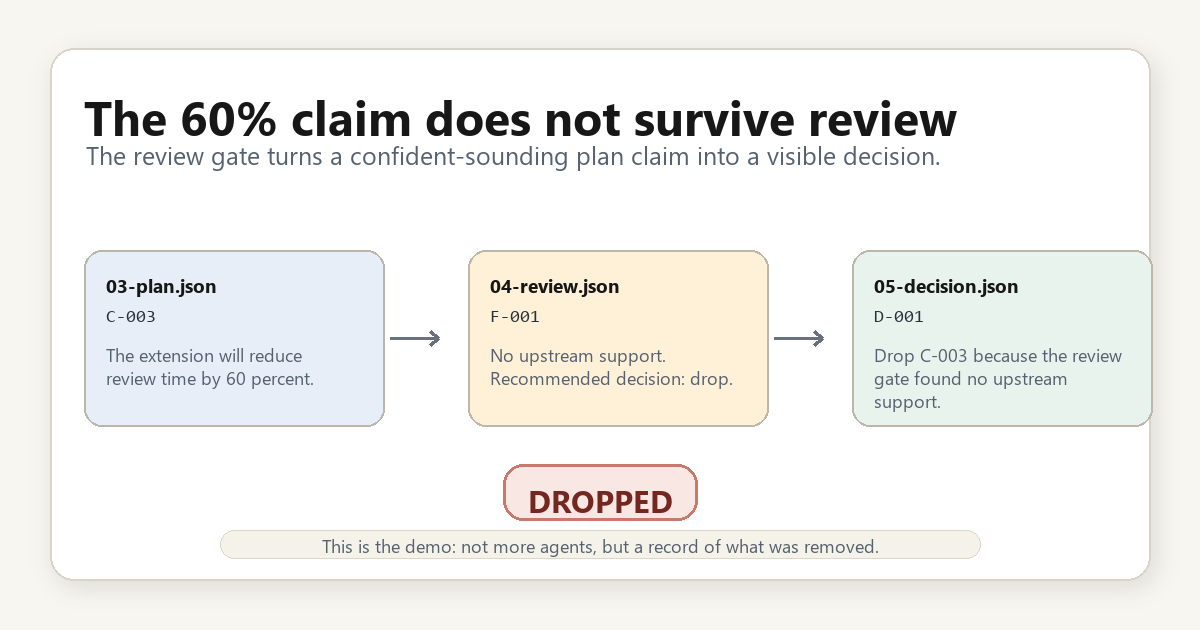
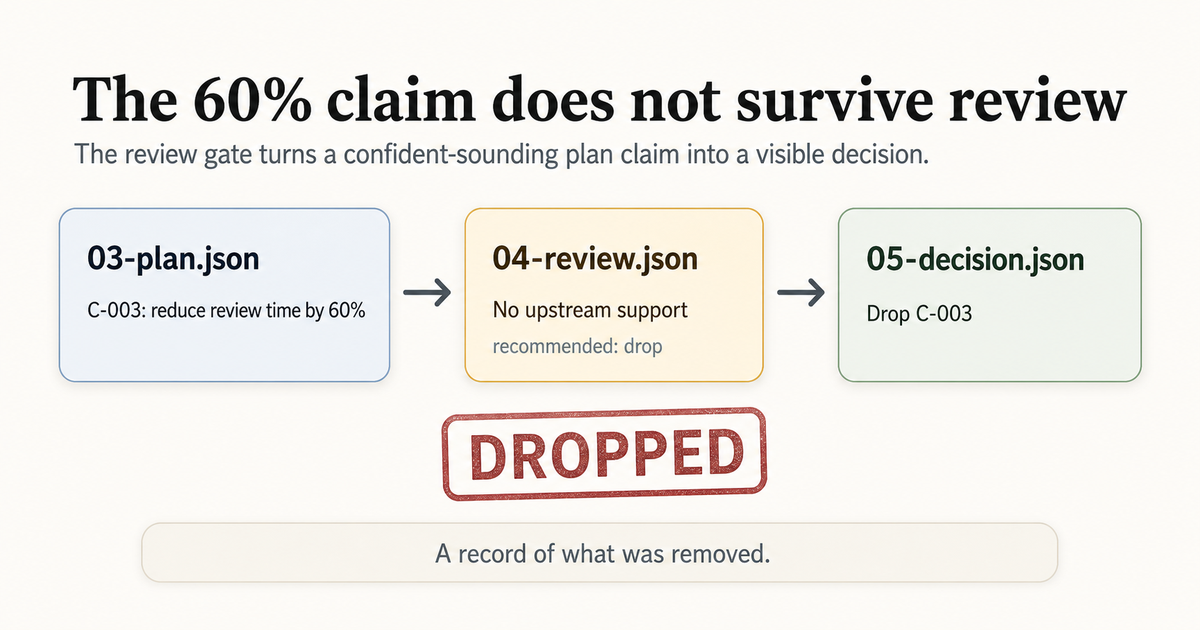
Regenerate repository graphics as PNG assets

diff --git a/docs/architecture.md b/docs/architecture.md
@@ -13,25 +13,7 @@ The point is to show the shape of an inspectable pipeline before adding model co
 
 ## Flow
 
-```mermaid
-flowchart LR
-    R["Product request"] --> I["intake-agent"]
-    I --> IV["Zod validation"]
-    IV --> K["risk-agent"]
-    K --> KV["Zod validation"]
-    KV --> P["plan-agent"]
-    P --> PV["Zod validation"]
-    PV --> G["review-gate"]
-    G --> GV["Zod validation"]
-    GV --> D["decision-writer"]
-    D --> OUT["Run packet"]
-
-    I --> LOG["run.jsonl"]
-    K --> LOG
-    P --> LOG
-    G --> LOG
-    D --> LOG
-```
+![Inspectable pipeline architecture](../assets/architecture-flow.png)
 
 ## Contracts
 